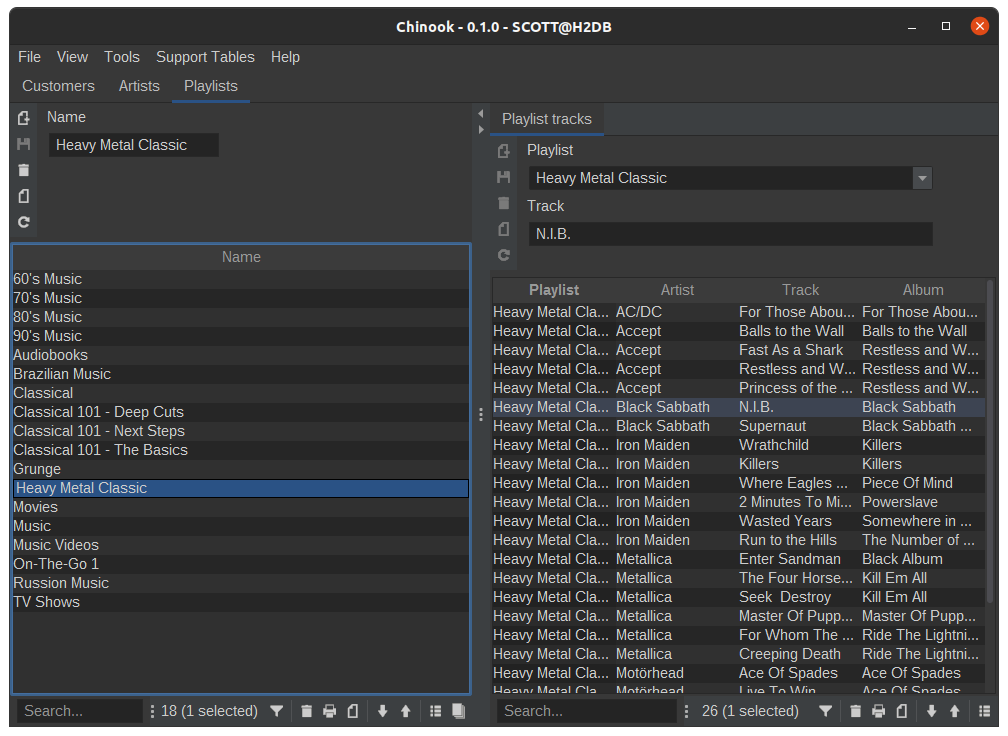
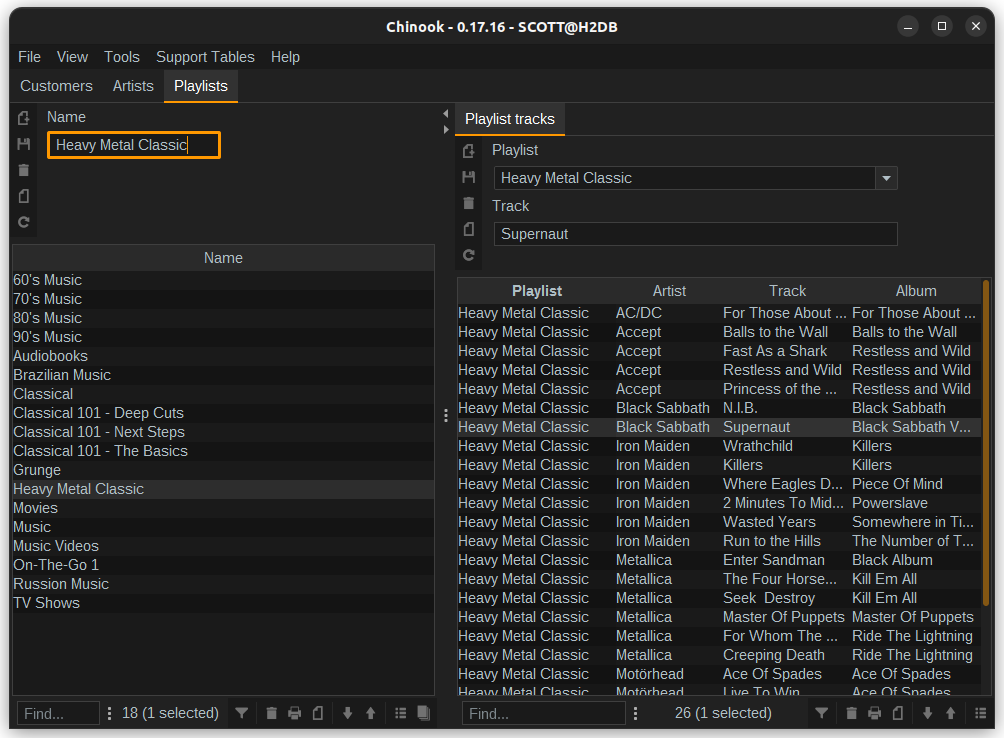
Minor demo improvements, screenshots updated, FlatLaf enabled

Changed region(s): [[0.0, 0.0, 1.0, 1.0], [0.8954, 0.2188, 0.9263, 0.2812]]

diff --git a/demos/petclinic/src/main/java/is/codion/framework/demos/petclinic/ui/PetclinicAppPanel.java b/demos/petclinic/src/main/java/is/codion/framework/demos/petclinic/ui/PetclinicAppPanel.java
@@ -17,18 +17,26 @@ import is.codion.framework.demos.petclinic.domain.api.VetSpecialty;
 import is.codion.framework.demos.petclinic.domain.api.Visit;
 import is.codion.framework.demos.petclinic.model.PetclinicAppModel;
 import is.codion.swing.common.ui.Windows;
+import is.codion.swing.common.ui.laf.LookAndFeelSelectionPanel;
 import is.codion.swing.framework.model.SwingEntityModel;
 import is.codion.swing.framework.ui.EntityApplicationPanel;
 import is.codion.swing.framework.ui.EntityPanel;
 import is.codion.swing.framework.ui.ReferentialIntegrityErrorHandling;
 
+import com.formdev.flatlaf.intellijthemes.FlatAllIJThemes;
+
+import java.util.Arrays;
 import java.util.List;
 import java.util.Locale;
 
+import static is.codion.swing.common.ui.laf.LookAndFeelProvider.addLookAndFeelProvider;
+import static is.codion.swing.common.ui.laf.LookAndFeelProvider.lookAndFeelProvider;
 import static is.codion.swing.framework.ui.EntityApplicationBuilder.entityApplicationBuilder;
 import static java.util.Arrays.asList;
 
 public final class PetclinicAppPanel extends EntityApplicationPanel<PetclinicAppModel> {
+
+  private static final String DEFAULT_FLAT_LOOK_AND_FEEL = "com.formdev.flatlaf.intellijthemes.FlatArcIJTheme";
 
   public PetclinicAppPanel(PetclinicAppModel appModel) {
     super(appModel);
@@ -79,6 +87,9 @@ public final class PetclinicAppPanel extends EntityApplicationPanel<PetclinicApp
 
   public static void main(String[] args) throws CancelException {
     Locale.setDefault(new Locale("en", "EN"));
+    Arrays.stream(FlatAllIJThemes.INFOS).forEach(themeInfo ->
+            addLookAndFeelProvider(lookAndFeelProvider(themeInfo.getClassName())));
+    LookAndFeelSelectionPanel.CHANGE_ON_SELECTION.set(true);
     ReferentialIntegrityErrorHandling.REFERENTIAL_INTEGRITY_ERROR_HANDLING
             .set(ReferentialIntegrityErrorHandling.DISPLAY_DEPENDENCIES);
     ColumnConditionModel.AUTOMATIC_WILDCARD.set(AutomaticWildcard.POSTFIX);
@@ -86,6 +97,7 @@ public final class PetclinicAppPanel extends EntityApplicationPanel<PetclinicApp
     EntityConnectionProvider.CLIENT_DOMAIN_CLASS.set("is.codion.framework.demos.petclinic.domain.PetClinic");
     entityApplicationBuilder(PetclinicAppModel.class, PetclinicAppPanel.class)
             .applicationName("Petclinic")
+            .defaultLookAndFeelClassName(DEFAULT_FLAT_LOOK_AND_FEEL)
             .frameSize(Windows.screenSizeRatio(0.6))
             .defaultLoginUser(User.parse("scott:tiger"))
             .start();

diff --git a/demos/empdept/src/main/java/is/codion/framework/demos/empdept/ui/EmpDeptAppPanel.java b/demos/empdept/src/main/java/is/codion/framework/demos/empdept/ui/EmpDeptAppPanel.java
@@ -14,21 +14,29 @@ import is.codion.swing.common.ui.Windows;
 import is.codion.swing.common.ui.control.Control;
 import is.codion.swing.common.ui.control.Controls;
 import is.codion.swing.common.ui.dialog.Dialogs;
+import is.codion.swing.common.ui.laf.LookAndFeelSelectionPanel;
 import is.codion.swing.framework.model.SwingEntityModel;
 import is.codion.swing.framework.ui.EntityApplicationPanel;
 import is.codion.swing.framework.ui.EntityPanel;
 import is.codion.swing.framework.ui.EntityTablePanel;
 
+import com.formdev.flatlaf.intellijthemes.FlatAllIJThemes;
+
 import javax.swing.filechooser.FileNameExtensionFilter;
 import java.io.File;
 import java.nio.charset.Charset;
+import java.util.Arrays;
 import java.util.Collections;
 import java.util.List;
 
+import static is.codion.swing.common.ui.laf.LookAndFeelProvider.addLookAndFeelProvider;
+import static is.codion.swing.common.ui.laf.LookAndFeelProvider.lookAndFeelProvider;
 import static is.codion.swing.framework.ui.EntityApplicationBuilder.entityApplicationBuilder;
 
 // tag::createEntityPanels[]
 public class EmpDeptAppPanel extends EntityApplicationPanel<EmpDeptAppModel> {
+
+  private static final String DEFAULT_FLAT_LOOK_AND_FEEL = "com.formdev.flatlaf.intellijthemes.FlatArcIJTheme";
 
   public EmpDeptAppPanel(EmpDeptAppModel applicationModel) {
     super(applicationModel);
@@ -84,8 +92,12 @@ public class EmpDeptAppPanel extends EntityApplicationPanel<EmpDeptAppModel> {
   public static void main(String[] args) {
     EntityPanel.TOOLBAR_BUTTONS.set(true);
     EntityConnectionProvider.CLIENT_DOMAIN_CLASS.set("is.codion.framework.demos.empdept.domain.EmpDept");
+    Arrays.stream(FlatAllIJThemes.INFOS).forEach(themeInfo ->
+            addLookAndFeelProvider(lookAndFeelProvider(themeInfo.getClassName())));
+    LookAndFeelSelectionPanel.CHANGE_ON_SELECTION.set(true);
     entityApplicationBuilder(EmpDeptAppModel.class, EmpDeptAppPanel.class)
             .applicationName("Emp-Dept")
+            .defaultLookAndFeelClassName(DEFAULT_FLAT_LOOK_AND_FEEL)
             .frameSize(Windows.screenSizeRatio(0.6))
             .defaultLoginUser(User.parse("scott:tiger"))
             .start();

diff --git a/demos/chinook/src/main/java/is/codion/framework/demos/chinook/ui/ChinookAppPanel.java b/demos/chinook/src/main/java/is/codion/framework/demos/chinook/ui/ChinookAppPanel.java
@@ -45,6 +45,7 @@ import static javax.swing.JOptionPane.showMessageDialog;
 
 public final class ChinookAppPanel extends EntityApplicationPanel<ChinookApplicationModel> {
 
+  private static final String DEFAULT_FLAT_LOOK_AND_FEEL = "com.formdev.flatlaf.intellijthemes.materialthemeuilite.FlatMaterialDarkerIJTheme";
   private static final String LANGUAGE_PREFERENCES_KEY = ChinookAppPanel.class.getSimpleName() + ".language";
   private static final Locale LOCALE_IS = new Locale("is", "IS");
   private static final Locale LOCALE_EN = new Locale("en", "EN");
@@ -158,6 +159,7 @@ public final class ChinookAppPanel extends EntityApplicationPanel<ChinookApplica
     entityApplicationBuilder(ChinookApplicationModel.class, ChinookAppPanel.class)
             .applicationName("Chinook")
             .applicationVersion(ChinookApplicationModel.VERSION)
+            .defaultLookAndFeelClassName(DEFAULT_FLAT_LOOK_AND_FEEL)
             .frameSize(new Dimension(1280, 720))
             .defaultLoginUser(User.parse("scott:tiger"))
             .start();

diff --git a/demos/world/src/main/java/is/codion/framework/demos/world/ui/WorldAppPanel.java b/demos/world/src/main/java/is/codion/framework/demos/world/ui/WorldAppPanel.java
@@ -33,6 +33,8 @@ import static is.codion.swing.framework.ui.EntityApplicationBuilder.entityApplic
 import static java.util.Arrays.asList;
 
 public final class WorldAppPanel extends EntityApplicationPanel<WorldAppModel> {
+  
+  private static final String DEFAULT_FLAT_LOOK_AND_FEEL = "com.formdev.flatlaf.intellijthemes.materialthemeuilite.FlatMaterialDarkerIJTheme";
 
   public WorldAppPanel(WorldAppModel applicationModel) {
     super(applicationModel);
@@ -72,6 +74,7 @@ public final class WorldAppPanel extends EntityApplicationPanel<WorldAppModel> {
     entityApplicationBuilder(WorldAppModel.class, WorldAppPanel.class)
             .applicationName("World")
             .applicationVersion(WorldAppModel.VERSION)
+            .defaultLookAndFeelClassName(DEFAULT_FLAT_LOOK_AND_FEEL)
             .frameSize(new Dimension(1280, 720))
             .defaultLoginUser(User.parse("scott:tiger"))
             .defaultLookAndFeelClassName(FlatDarkLaf.class.getName())
